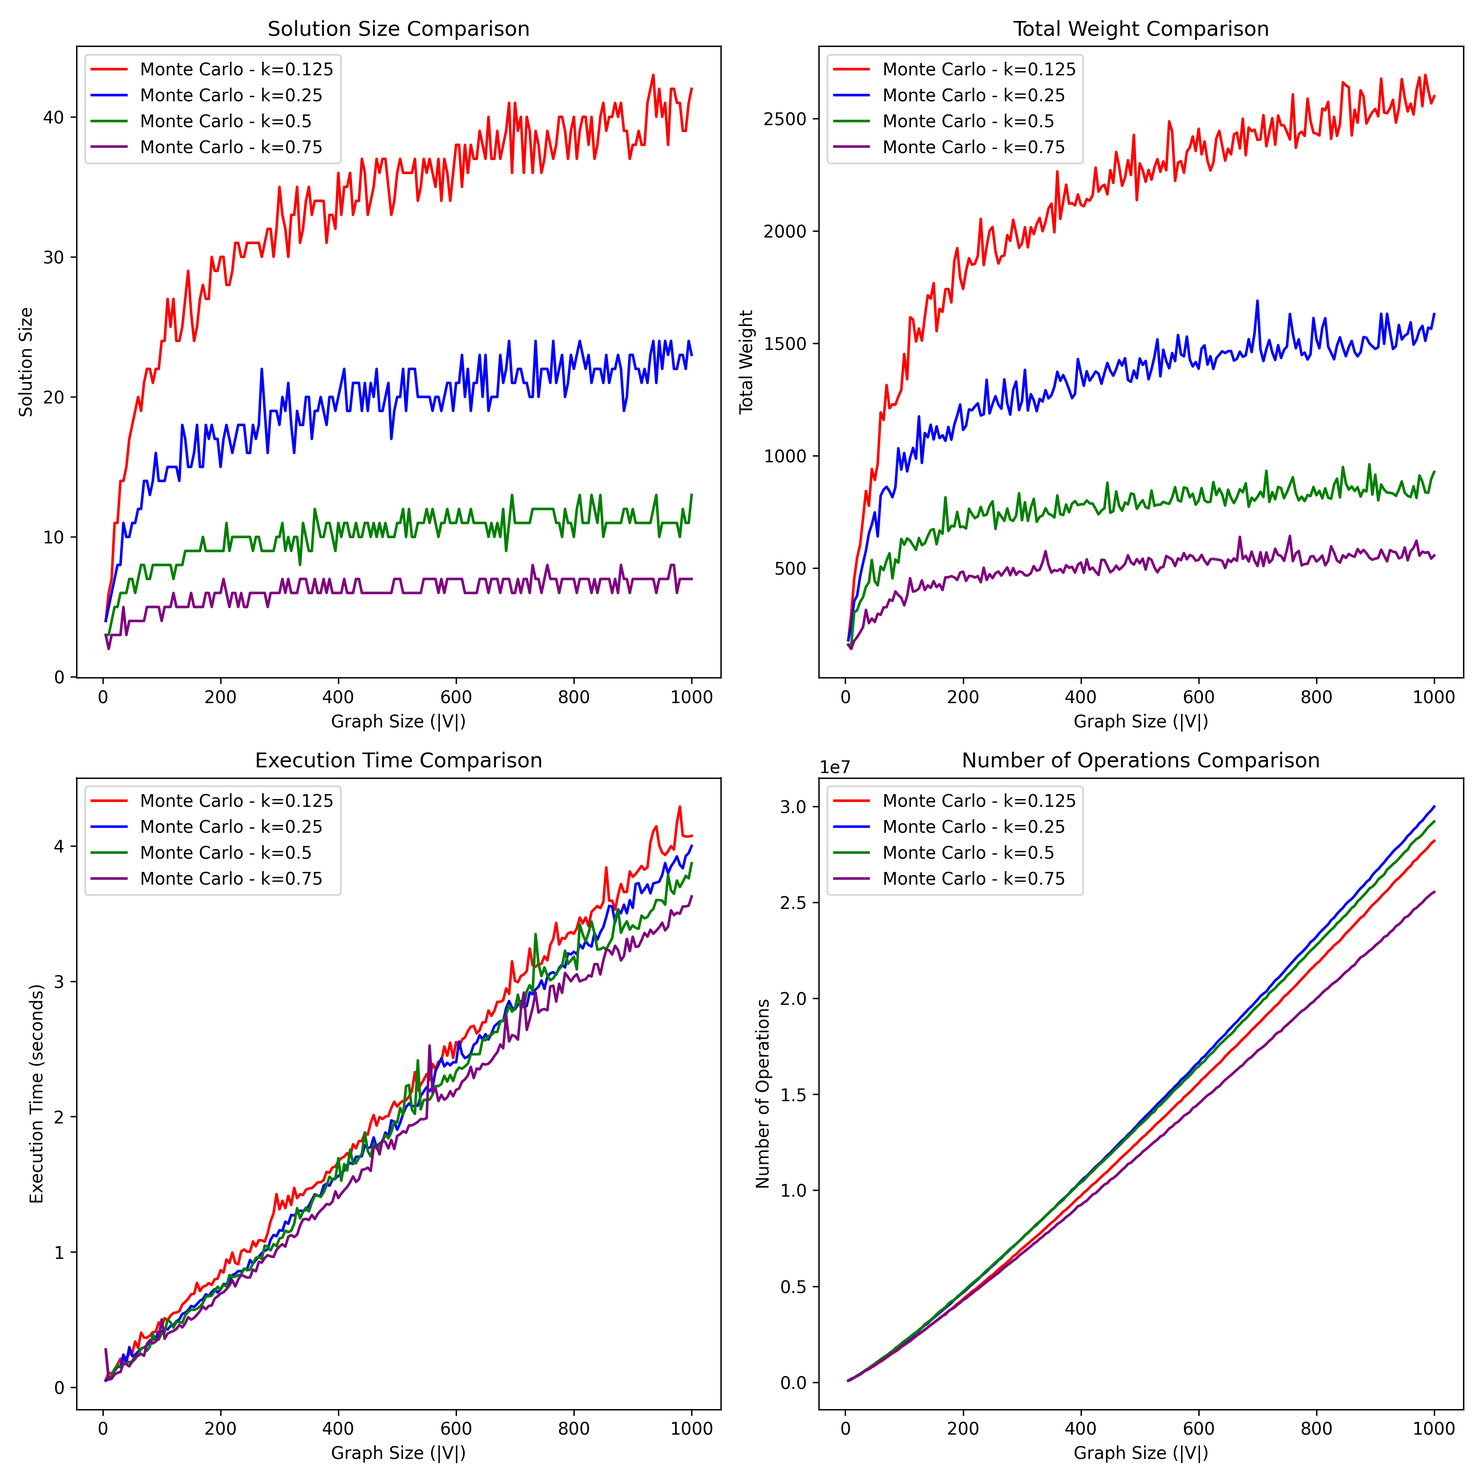
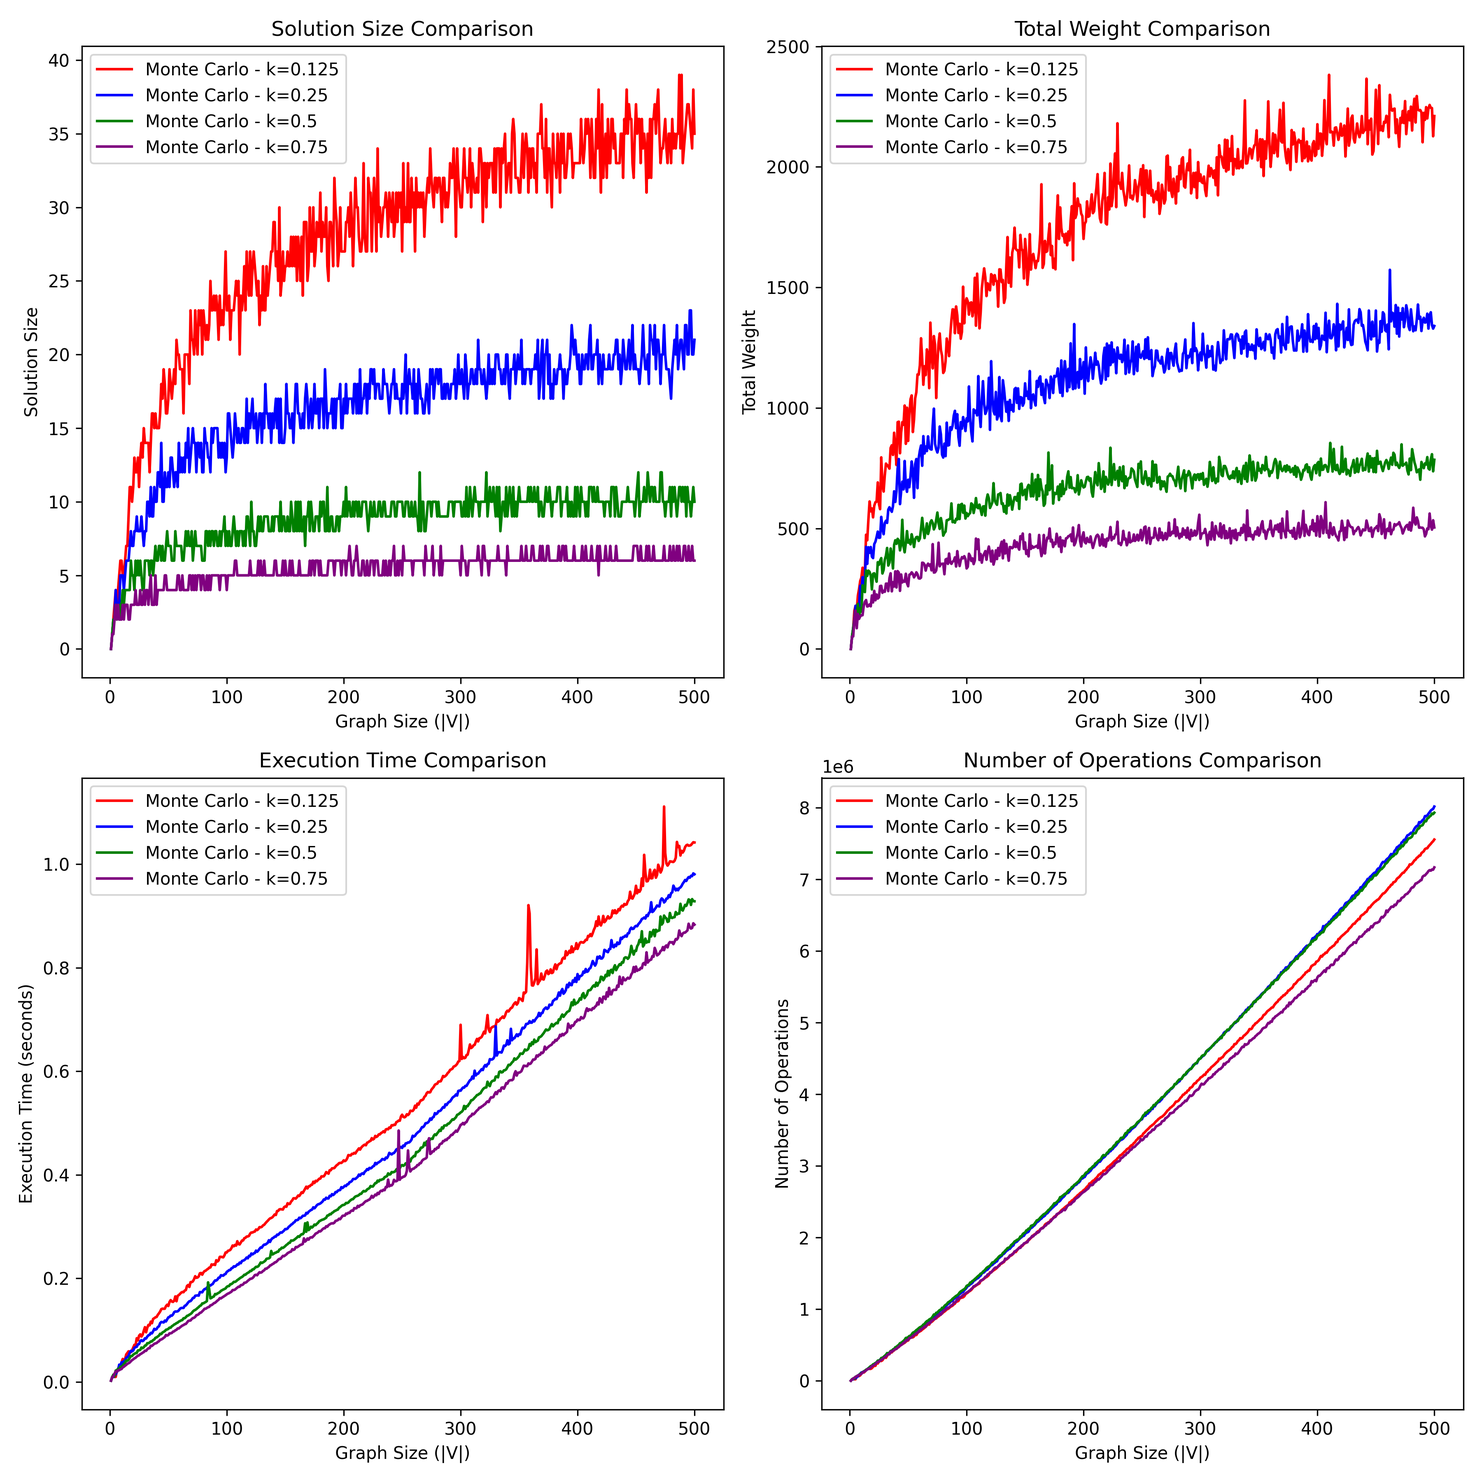
feat: improved simulated annealing

diff --git a/code/tests.py b/code/tests.py
@@ -1,9 +1,8 @@
 from stresstester import stressTester
 from algorithms import algorithms
-from constants import *
+from constants import k_full
 from utils import utils
 from visualgraphs import quick_algo_graph, quick_algo_compare_graphs, single_metric_comparison, exhaustive_comparison_time_operations
-import networkx as nx
 
 # The tests were organized and executed in a Jupyter Notebook, however the notebook quickly became desorganized and hard to read.
 # Because of that, the tests were moved to this file so that the professor can easily read and understand them.
@@ -12,46 +11,57 @@ def graph_creation():
     """ Pre-generated graphs """
     """ ATTENTION: This function will take a long time to run, and occupy approximately 1.5GB of disk space """
     
-    # Big Graphs for Greedy Algorithms
-    # utils.graph_creation_and_save(3500, 0.125, 100)
-    # utils.graph_creation_and_save(3500, 0.25, 100)
-    # utils.graph_creation_and_save(3500, 0.50, 100)
-    # utils.graph_creation_and_save(3500, 0.75, 100)
-    
-    # Smaller Graphs for Comparing With Exhaustive
-    # Deprecated: utils.graph_creation_and_save()
-    utils.graph_creation_and_save(500, 0.125, 1, file_name="small_graphs")
-    utils.graph_creation_and_save(500, 0.25, 1, file_name="small_graphs")
-    utils.graph_creation_and_save(500, 0.50, 1, file_name="small_graphs")
-    utils.graph_creation_and_save(500, 0.75, 1, file_name="small_graphs")
+    for k in k_full:
+        # Create small graphs for comparing with exhaustive
+        utils.graph_creation(n=500, k=k, step=1, save_data={'output_dir':'../graphs/small_graphs', 'file_name':'small_graphs'})
+        
+        # Create big graphs for greedy and randomized algorithms
+        utils.graph_creation(n=3500, k=k, step=100, save_data={'output_dir':'../graphs/big_graphs', 'file_name':'big_graphs'})
+        
+def quick_test():
+    stressTester.stress_test(func=algorithms.monte_carlo, dirname="monte_carlo", dataset_file="../graphs/small_graphs/small_graphs_0.125.jsonl", iterations=1000)
+    stressTester.stress_test(func=algorithms.parallel_heuristic_monte_carlo, dirname="parallel_heuristic_monte_carlo", dataset_file="../graphs/small_graphs/small_graphs_0.125.jsonl", iterations=1000)
+    stressTester.stress_test(func=algorithms.simulated_annealing, dirname="simulated_annealing", dataset_file="../graphs/small_graphs/small_graphs_0.125.jsonl", iterations=1000)
 
-def full_test():
+def full_test(iterations=2500):
     """ Full test of all algorithms """
     """ ATTENTION: This function will take a long time to run, and it will overwrite the data that is already stored"""
-    
-    # Deprecated: utils.full_stress_test()
-    # Exhaustive
-    utils.full_stress_test(algorithms.exhaustive_v2, base_filename="exhaustive", max_time_minutes=1, stored_graphs=False, sample_size=1)
-    utils.full_stress_test(algorithms.exhaustive_v1, base_filename="exhaustive_v1", max_time_minutes=2, stored_graphs=False, sample_size=1)
+    for k in k_full:
+        # Exhaustive
+        stressTester.stress_test(func=algorithms.exhaustive_v2, dirname="exhaustive", dataset_file=f"../graphs/small_graphs/small_graphs_{k}.csv")
+        stressTester.stress_test(func=algorithms.exhaustive_v1, dirname="exhaustive_v1", dataset_file=f"../graphs/small_graphs/small_graphs_{k}.csv")
+        
+        # Greedy
+        # Smaller Graphs
+        stressTester.stress_test(func=algorithms.biggest_weight_first_v2, dirname="biggest_weight_first_compare/small", dataset_file=f"../graphs/small_graphs/small_graphs_{k}.csv")
+        stressTester.stress_test(func=algorithms.smallest_degree_first_v1, dirname="smallest_degree_first_compare/small", dataset_file=f"../graphs/small_graphs/small_graphs_{k}.csv")
+        stressTester.stress_test(func=algorithms.weight_to_degree_v1, dirname="weight_to_degree_compare/small", dataset_file=f"../graphs/small_graphs/small_graphs_{k}.csv")
+        
+        # Bigger Graphs
+        stressTester.stress_test(func=algorithms.biggest_weight_first_v2, dirname="biggest_weight_first/big", dataset_file=f"../graphs/big_graphs/big_graphs_{k}.csv")
+        stressTester.stress_test(func=algorithms.smallest_degree_first_v1, dirname="smallest_degree_first/big", dataset_file=f"../graphs/big_graphs/big_graphs_{k}.csv")
+        stressTester.stress_test(func=algorithms.weight_to_degree_v1, dirname="weight_to_degree/big", dataset_file=f"../graphs/big_graphs/big_graphs_{k}.csv")
+        
+        # Randomized
+        
+        # Smaller Graphs
+        stressTester.stress_test(func=algorithms.monte_carlo, dirname="monte_carlo/small", dataset_file=f"../graphs/small_graphs/small_graphs_{k}.jsonl", iterations=iterations, filename=f"results_{k}")
+        stressTester.stress_test(func=algorithms.parallel_heuristic_monte_carlo, dirname="parallel_heuristic_monte_carlo/small", dataset_file=f"../graphs/small_graphs/small_graphs_{k}.jsonl", iterations=iterations, filename=f"results_{k}")
+        stressTester.stress_test(func=algorithms.simulated_annealing, dirname="simulated_annealing/small", dataset_file=f"../graphs/small_graphs/small_graphs_{k}.jsonl", iterations=iterations, filename=f"results_{k}")
+        
+        # Bigger Graphs
 
-    # Smaller Greedy Tests, For Comparing With Exhaustive
-    utils.full_stress_test(algorithms.biggest_weight_first_v2, base_filename="biggest_weight_first_compare", n_max=800, stored_graphs=False, sample_size=1)
-    utils.full_stress_test(algorithms.smallest_degree_first_v1, base_filename="smallest_degree_first_compare", n_max=800, stored_graphs=False, sample_size=1)
-    utils.full_stress_test(algorithms.weight_to_degree_v1, base_filename="weight_to_degree_compare", n_max=800, stored_graphs=False, sample_size=1)
-
-    # Normal Greedy Tests
-    utils.full_stress_test(algorithms.biggest_weight_first_v2, base_filename="biggest_weight_first", stored_graphs=True, sample_size=100)
-    utils.full_stress_test(algorithms.smallest_degree_first_v1, base_filename="smallest_degree_first", stored_graphs=True, sample_size=100)
-    utils.full_stress_test(algorithms.weight_to_degree_v1, base_filename="weight_to_degree", stored_graphs=True, sample_size=100)
+        stressTester.stress_test(func=algorithms.monte_carlo, dirname="monte_carlo/big", ataset_file=f"../graphs/big_graphs/big_graphs_{k}.jsonl", iterations=iterations, filename=f"results_{k}")
+        stressTester.stress_test(func=algorithms.parallel_heuristic_monte_carlo, dirname="parallel_heuristic_monte_carlo/big", dataset_file=f"../graphs/big_graphs/big_graphs_{k}.jsonl", iterations=iterations, filename=f"results_{k}")
+        stressTester.stress_test(func=algorithms.simulated_annealing, dirname="simulated_annealing/big", dataset_file=f"../graphs/big_graphs/big_graphs_{k}.jsonl", iterations=iterations, filename=f"results_{k}")
+        
+    # Pre-Generated Graphs - For Non-Exhaustive Algorithms
+    stressTester.stress_test(func=algorithms.weight_to_degree_v1, dirname="weight_to_degree", iterations=iterations)
+    stressTester.stress_test(func=algorithms.monte_carlo, dirname="monte_carlo/small", iterations=iterations)
+    stressTester.stress_test(func=algorithms.parallel_heuristic_monte_carlo, dirname="parallel_heuristic_monte_carlo/small", iterations=iterations)
+    stressTester.stress_test(func=algorithms.simulated_annealing, dirname="simulated_annealing/small", iterations=iterations)
     
-def full_test_with_iterations():
-    """ Full test for algorithms that require iterations (randomized algorithms) """
-    
-    # Standard Randomized, Smaller For Comparing With Exhaustive
-    #utils.full_stress_test(algorithms.monte_carlo, base_filename="monte_carlo_compare", n_max=800, stored_graphs=False, sample_size=1, iterations=[25, 50, 100, 250, 500, 750, 1000])
-    #utils.full_stress_test(algorithms.monte_carlo_with_filter, base_filename="monte_carlo_with_filter_compare", n_max=800, stored_graphs=False, sample_size=1, iterations=[25, 50, 100, 250, 500, 750, 1000])
-    utils.full_stress_test(algorithms.heuristic_monte_carlo, base_filename="heuristic_monte_carlo_compare", stored_graphs=True, sample_size=1, iterations=[25, 50, 100, 250, 500, 750, 1000])
-    
+        
 def quick_precision_test(name, algorithm, k, n, iterations=1000, initial_temp=1000, cooling_rate=0.99, trials=1):
     """ Quick test to check the precision of an algorithm """
     print(f"Testing {name}'s precision")
@@ -60,61 +70,25 @@ def quick_precision_test(name, algorithm, k, n, iterations=1000, initial_temp=10
     
 def main():
     """ Main function """
-    #quick_precision_test("Monte Carlo", algorithms.monte_carlo, 0.75, 175, 250)
-    #quick_precision_test("Heuristic Monte Carlo", algorithms.heuristic_monte_carlo, 0.75, 175, 250)
-    #quick_precision_test("Simulated Annealing", algorithms.simulated_annealing, 0.75, 175, 1000, 1000, 0.99)
-    #quick_precision_test("Threaded Heuristic Monte Carlo", algorithms.threaded_heuristic_monte_carlo, 0.75, 175, 250)
-
+    
     # Graph Creation
-    """
-    for k in k_full:
-        # Create small graphs for comparing with exhaustive
-        utils.graph_creation(n=500, k=k, step=1, save_data={'output_dir':'../graphs/small_graphs', 'file_name':f'small_graphs'})
-        
-        # Create big graphs for greedy and randomized algorithms
-        utils.graph_creation(n=3500, k=k, step=100, save_data={'output_dir':'../graphs/big_graphs', 'file_name':f'big_graphs'})
-    """
+    #graph_creation()
+    
+    # Quick Tests (to make sure the algorithms are working)
+    quick_test()
     
     # Stress Tests
-    for k in k_full:
-        # Exhaustive
-        """
-        stressTester.stress_test(func=algorithms.exhaustive_v2, dirname="exhaustive_test", dataset_file=f"../graphs/small_graphs/small_graphs_{k}.csv")
-        stressTester.stress_test(func=algorithms.exhaustive_v1, dirname="exhaustive_v1_test", dataset_file=f"../graphs/small_graphs/small_graphs_{k}.csv")
-        """
-        
-        # Greedy
-        """
-        # Smaller Graphs
-        stressTester.stress_test(func=algorithms.biggest_weight_first_v2, dirname="biggest_weight_first_compare_test", dataset_file=f"../graphs/small_graphs/small_graphs_{k}.csv")
-        stressTester.stress_test(func=algorithms.smallest_degree_first_v1, dirname="smallest_degree_first_compare_test", dataset_file=f"../graphs/small_graphs/small_graphs_{k}.csv")
-        stressTester.stress_test(func=algorithms.weight_to_degree_v1, dirname="weight_to_degree_compare_test", dataset_file=f"../graphs/small_graphs/small_graphs_{k}.csv")
-        
-        # Bigger Graphs
-        stressTester.stress_test(func=algorithms.biggest_weight_first_v2, dirname="biggest_weight_first_test", dataset_file=f"../graphs/big_graphs/big_graphs_{k}.csv")
-        stressTester.stress_test(func=algorithms.smallest_degree_first_v1, dirname="smallest_degree_first_test", dataset_file=f"../graphs/big_graphs/big_graphs_{k}.csv")
-        stressTester.stress_test(func=algorithms.weight_to_degree_v1, dirname="weight_to_degree_test", dataset_file=f"../graphs/big_graphs/big_graphs_{k}.csv")
-        """
-        
-        # Randomized
-        
-        # Number of iterations
-        iterations = 2500
-        
-        # Smaller Graphs
-
-        stressTester.stress_test(func=algorithms.monte_carlo, dirname="monte_carlo_test/small", dataset_file=f"../graphs/small_graphs/small_graphs_{k}.jsonl", iterations=iterations, filename=f"results_{k}")
-        stressTester.stress_test(func=algorithms.parallel_heuristic_monte_carlo, dirname="parallel_heuristic_monte_carlo_test/small", dataset_file=f"../graphs/small_graphs/small_graphs_{k}.jsonl", iterations=iterations, filename=f"results_{k}")
-        stressTester.stress_test(func=algorithms.simulated_annealing, dirname="simulated_annealing_test/small", dataset_file=f"../graphs/small_graphs/small_graphs_{k}.jsonl", iterations=iterations, filename=f"results_{k}")
-
-        
-        # Bigger Graphs
-
-        """
-        stressTester.stress_test(func=algorithms.monte_carlo, dirname="monte_carlo_test/big", ataset_file=f"../graphs/big_graphs/big_graphs_{k}.jsonl", iterations=iterations, filename=f"results_{k}")
-        stressTester.stress_test(func=algorithms.parallel_heuristic_monte_carlo, dirname="parallel_heuristic_monte_carlo_test/big", dataset_file=f"../graphs/big_graphs/big_graphs_{k}.jsonl", iterations=iterations, filename=f"results_{k}")
-        stressTester.stress_test(func=algorithms.simulated_annealing, dirname="simulated_annealing_test/big", dataset_file=f"../graphs/big_graphs/big_graphs_{k}.jsonl", iterations=iterations, filename=f"results_{k}")
-        """
+    #full_test()        
+    
+    # Comparisons
+    #quick_algo_compare_graphs(["Monte Carlo", "Parallel Heuristic Monte Carlo", "Simulated Annealing"], ["monte_carlo_test/small/results_0.125.csv", "parallel_heuristic_monte_carlo_test/small/results_0.125.csv", "simulated_annealing_test/small/results_0.125.csv"])
+    #quick_algo_graph("Monte Carlo", "monte_carlo_test/small/results_0.125.csv")
+    #quick_algo_graph("Monte Carlo", "monte_carlo_test/results_0.125.csv")
+    #quick_algo_graph("Simulated Annealing", "simulated_annealing_test/results_0.125.csv")
+    
+    #quick_algo_compare_graphs([f"Monte Carlo - k={k}" for k in k_full], [f"monte_carlo_test/small/results_{k}.csv" for k in k_full], output_filename="../data/monte_carlo_test/monte_carlo_small_comparison")
+    #quick_algo_compare_graphs([f"Parallel Heuristic Monte Carlo - k={k}" for k in k_full], [f"parallel_heuristic_monte_carlo_test/small/results_{k}.csv" for k in k_full], output_filename="../data/parallel_heuristic_monte_test/parallel_heuristic_monte_carlo_small_comparison")
+    #quick_algo_compare_graphs([f"Simulated Annealing - k={k}" for k in k_full], [f"simulated_annealing_test/small/results_{k}.csv" for k in k_full], output_filename="../data/simulated_annealing_test/simulated_annealing_small_comparison")
     
 if __name__ == "__main__":
     main()

diff --git a/code/algorithms.py b/code/algorithms.py
@@ -164,15 +164,18 @@ class algorithms:
         best_set = set()
         best_weight = 0
         ops = 0  # Initialize operation count
+        
+        isolated_nodes = {node for node in G.nodes if G.degree(node) == 0}
+        ops += len(G.nodes)  # Increment for isolated nodes
+        
+        nodes = list(set(G.nodes) - isolated_nodes)
 
         for _ in range(iterations):
-
-            nodes = list(G.nodes)
             random.shuffle(nodes)  # Randomize node order
-            ops += len(G.nodes)  # Increment for shuffling nodes
+            ops += len(nodes)  # Increment for shuffling nodes
 
             # Deterministically solve for the current order
-            current_set = set()
+            current_set = set(isolated_nodes)
             current_weight = 0
             excluded_nodes = set()
 
@@ -217,53 +220,63 @@ class algorithms:
         """
         
         ops = 0  # Operation count
+                
+        conflict_nodes = set() # Track nodes that are adjacent to the current solution
+
+        def add_node_to_solution(solution, node):
+            """Add a node to the solution and update conflict_nodes."""
+            nonlocal ops
+            
+            solution.add(node)
+            ops += 1  # Increment for adding a node to the solution
+            
+            conflict_nodes.update(G.neighbors(node))
+            ops += len(list(G.neighbors(node)))  # Increment for updating neighbors
+            
+            conflict_nodes.add(node)
+            ops += 1  # Increment for adding the node itself to conflicts
+
+        def remove_node_from_solution(solution, node):
+            """Remove a node from the solution and update conflict_nodes."""
+            nonlocal ops
+            
+            solution.remove(node)
+            ops += 1  # Increment for removing a node from the solution
+            
+            conflict_nodes.difference_update(G.neighbors(node))
+            ops += len(list(G.neighbors(node)))  # Increment for updating neighbors
+            
+            conflict_nodes.discard(node)
+            ops += 1  # Increment for removing the node itself from conflicts
+            
+        def get_add_candidates(solution):
+            """Return nodes that can be added to the solution."""
+            return set(G.nodes) - solution - conflict_nodes
         
         def calculate_weight(independent_set):
             """Calculate the total weight of a set."""
             nonlocal ops
             ops += len(independent_set)  # Increment for weight calculation
-            return sum(weights[node] for node in independent_set)
-
+            return sum(G.nodes[node]['weight'] for node in independent_set)
+        
         def get_random_neighbor(solution):
-            """
-            Efficiently generate a single random neighbor by adding or removing a node.
-            Ensures the neighbor remains an independent set.
-            """
-            nonlocal ops
-            ops += 1  # Increment for deciding between add/remove
-            
             if random.random() < 0.5:
                 # Attempt to add a node
-                candidates = [
-                    node for node in G.nodes
-                    if node not in solution and all(n not in solution for n in G.neighbors(node))
-                ]
-                ops += len(G.nodes) + sum(len(list(G.neighbors(node))) for node in candidates)  # Increment for candidate generation
+                candidates = get_add_candidates(solution)
                 if candidates:
-                    node_to_add = random.choice(candidates)
-                    ops += 1  # Increment for choosing a node
-                    return solution | {node_to_add}
+                    node_to_add = random.choice(list(candidates))
+                    add_node_to_solution(solution, node_to_add)
             else:
                 # Attempt to remove a node
                 if solution:
-                    ops += 1  # Increment for checking if solution is non-empty
                     node_to_remove = random.choice(list(solution))
-                    ops += 1  # Increment for choosing a node to remove
-                    return solution - {node_to_remove}
-            return solution  # No change if no valid neighbor is found
-
-        # Precompute node weights for efficiency
-        weights = {node: G.nodes[node]['weight'] for node in G.nodes}
-        ops += len(G.nodes)  # Increment for precomputing weights
+                    remove_node_from_solution(solution, node_to_remove)
+            return solution
 
         # Initialize with a greedy independent set without sorting
-        current_set = set()
-        for node in G.nodes:  # Traverse nodes in their natural or random order
-            if all(neighbor not in current_set for neighbor in G.neighbors(node)):
-                current_set.add(node)  # Add node if it's independent
-                ops += 1  # Increment for adding a node
-            ops += len(list(G.neighbors(node)))  # Increment for checking neighbors
-
+        current_set, init_ops = algorithms.monte_carlo(G, 1)
+        ops += init_ops  # Increment for initializing the current set
+        
         current_weight = calculate_weight(current_set)
         best_set = current_set
         best_weight = current_weight

diff --git a/code/visualgraphs.py b/code/visualgraphs.py
@@ -653,7 +653,7 @@ def quick_algo_graph(algorithm, filename):
     plt.savefig(DATA_FOLDER + filename.replace('.csv', '.png'), dpi=300)
     plt.close()
 
-def quick_algo_compare_graphs(algorithms, filenames):
+def quick_algo_compare_graphs(algorithms, filenames, output_filename='../images/quick_comparison.png'):
     """ 
     Create a quick comparison graph for the specified algorithms and save it to the given filename. 
     This is a helper function to quickly visualize the results of multiple algorithms. 
@@ -702,12 +702,11 @@ def quick_algo_compare_graphs(algorithms, filenames):
     
     # Save the plots
     plt.tight_layout()
-    plt.savefig('../images/quick_comparison.png', dpi=300)
+    plt.savefig(output_filename, dpi=300)
     plt.close()
 
 if __name__ == "__main__":
     remarks_graphs()
-    exhaustive_comparison_time()
     exhaustive_comparison_operations()
     exhaustive_vs_greedy_size_weight()
     greedy_comparison_operations_time()
@@ -715,4 +714,3 @@ if __name__ == "__main__":
     exhaustive_vs_greedy_error_ratio_and_accuracy()
     monte_carlo_precision()
     comparison_operations_time()
-    exhaustive_vs_algorithms_size_weight()

diff --git a/code/stresstester.py b/code/stresstester.py
@@ -47,6 +47,7 @@ class stressTester:
             return False  # Indicate timeout
         except Exception as e:
             print(f"Error during function execution: {e}")
+            raise e
             return False  # Treat errors as timeouts for safety
 
         total_weight = sum(G.nodes[node]['weight'] for node in result)
